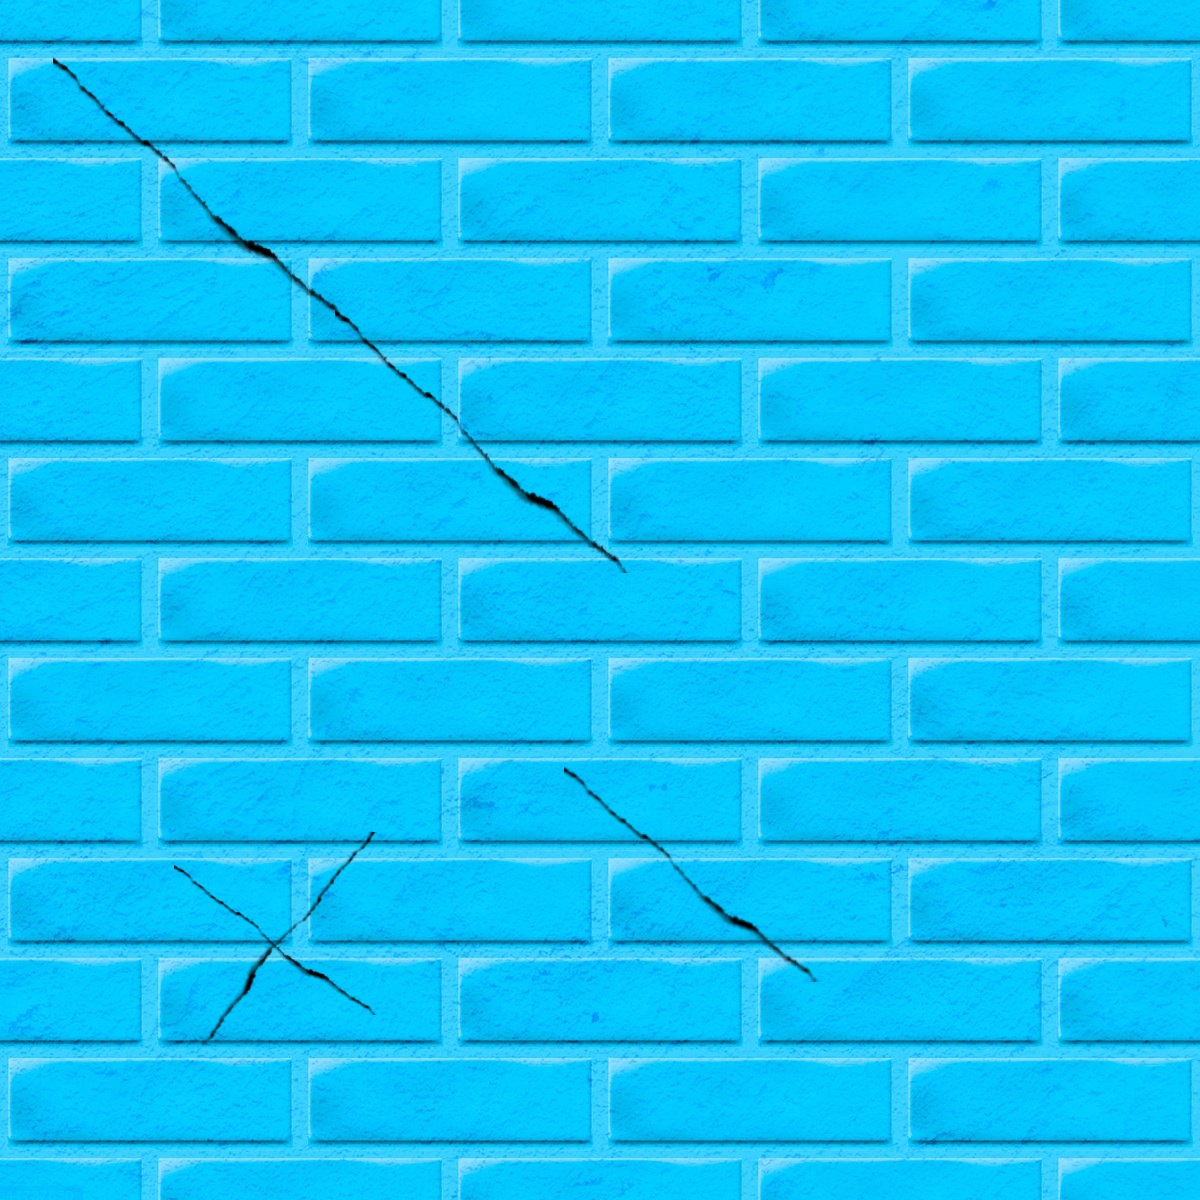
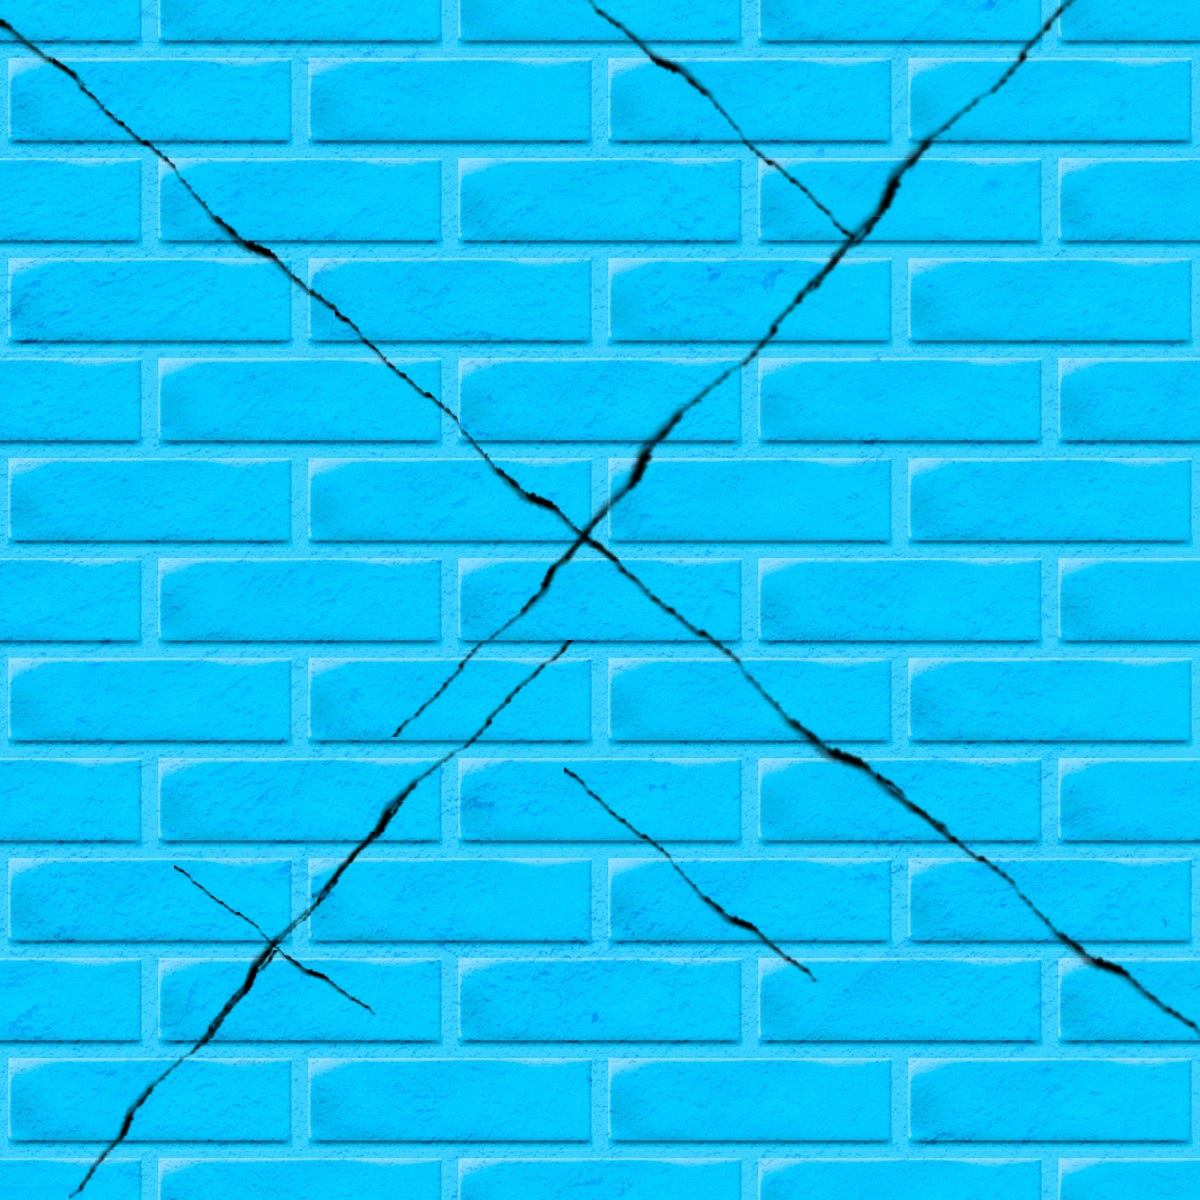
:sparkles: affichage des lettres et nombres d'essais

diff --git a/resources/script/game/game.js b/resources/script/game/game.js
@@ -1,22 +1,42 @@
 import { data } from "../../../data/data.js";
 import { Keyboard } from "./keyboard.js";
 
-const path = "./data/data.json";
-
 export class Game {
   hiddenWord;
   keyBoard;
   tries;
+  hiddenLetter;
 
   constructor() {
     this.hiddenWord = this.RandomHiddenWord();
     this.keyBoard = new Keyboard();
     this.tries = 8;
-    this.keyBoard.hiddenWord = this.hiddenWord;
-    this.generateHiddenWordInView();
+    this.hiddenLetter = [];
 
+    for (let letter of this.hiddenWord){
+      this.hiddenLetter.push(false);
+    }
+
+    this.generateHiddenWordInView();
     this.addEventToButton();
+    this.displayTries();
   }
+  //Tries
+
+  displayTries(){
+    const img = document.getElementById("image-bw");
+    img.src = "/resources/images/blue_wall_"+this.tries+".jpg"
+    //TODO Mettre image pour 0 essaies et faire la même pour quand on gagne.
+
+    const element = document.getElementById("game-count");
+    if (this.tries <= 0){
+      element.textContent = "Vous avec perdu ! La personne à trouver était "+this.hiddenWord
+    }
+    else {
+      element.textContent = "Il vous reste " + this.tries + " tentatives";
+    }
+  }
+
 
   //KeyBoard/Button
   isInWord(word, btn) {
@@ -29,15 +49,27 @@ export class Game {
     return [false, null];
   }
 
-  checkClickedButton(button){
-    const check = this.isInWord(this.hiddenWord, button)
-    button.inWord = check[0]
-    if (button.inWord){
-
-      button.disableGreen();
+  checkWordFound(){
+    for (let find of this.hiddenLetter){
+      if (! find){
+        return find
+      }
     }
-    else{
-      button.disableRed();
+    return true;
+  }
+
+  checkClickedButton(button){
+    if ((this.tries > 0) && (! this.checkWordFound()) && (! button.used)) {
+      const check = this.isInWord(this.hiddenWord, button)
+      button.inWord = check[0]
+      if (button.inWord) {
+        button.disableGreen();
+        this.displayChar(button);
+      } else {
+        this.tries --;
+        this.displayTries();
+        button.disableRed();
+      }
     }
   }
 
@@ -50,6 +82,28 @@ export class Game {
 
 
   //HiddenWord
+
+  getCharsIndex(button){
+    const letter = document.getElementById(button.id).textContent.trim();
+    let chars = [];
+    for (let i = 0 ; i < this.hiddenWord.length; i++){
+      if (this.hiddenWord[i] === letter){
+        chars.push(i);
+      }
+    }
+    return chars;
+  }
+
+  displayChar(button){
+    const index = this.getCharsIndex(button);
+    for (let i of index){
+      let field = document.getElementById("char-"+i);
+      field.textContent = this.hiddenWord[i];
+      this.hiddenLetter[i] = true;
+    }
+  }
+
+
   RandomHiddenWord() {
     const key = Math.floor(Math.random() * Object.keys(data).length);
     const word = String(data[key])
@@ -72,4 +126,7 @@ export class Game {
     cell.setAttribute("class", "p-1");
     return cell;
   }
+
+
+
 }

diff --git a/resources/view/game.html b/resources/view/game.html
@@ -42,9 +42,16 @@
     <div class="container-fluid">
       <div class="text-center">
         <img
+          alt="Blue Wall image"
+          id="image-bw"
           class="pendu-img mb-5 mt-3"
           src="/resources/images/blue_wall_8.jpg"
         />
+
+        <div>
+          <h5 id="game-count"></h5>
+        </div>
+
         <div
           id="hidden_word"
           class="d-flex justify-content-center text flex-row mb-3"

diff --git a/resources/script/game/keyboard.js b/resources/script/game/keyboard.js
@@ -12,11 +12,6 @@ export class Keyboard {
 
   }
 
-  display() {
-    this.listButtons.forEach(function (item) {
-      console.log(item.id);
-    });
-  }
 
 
 }
